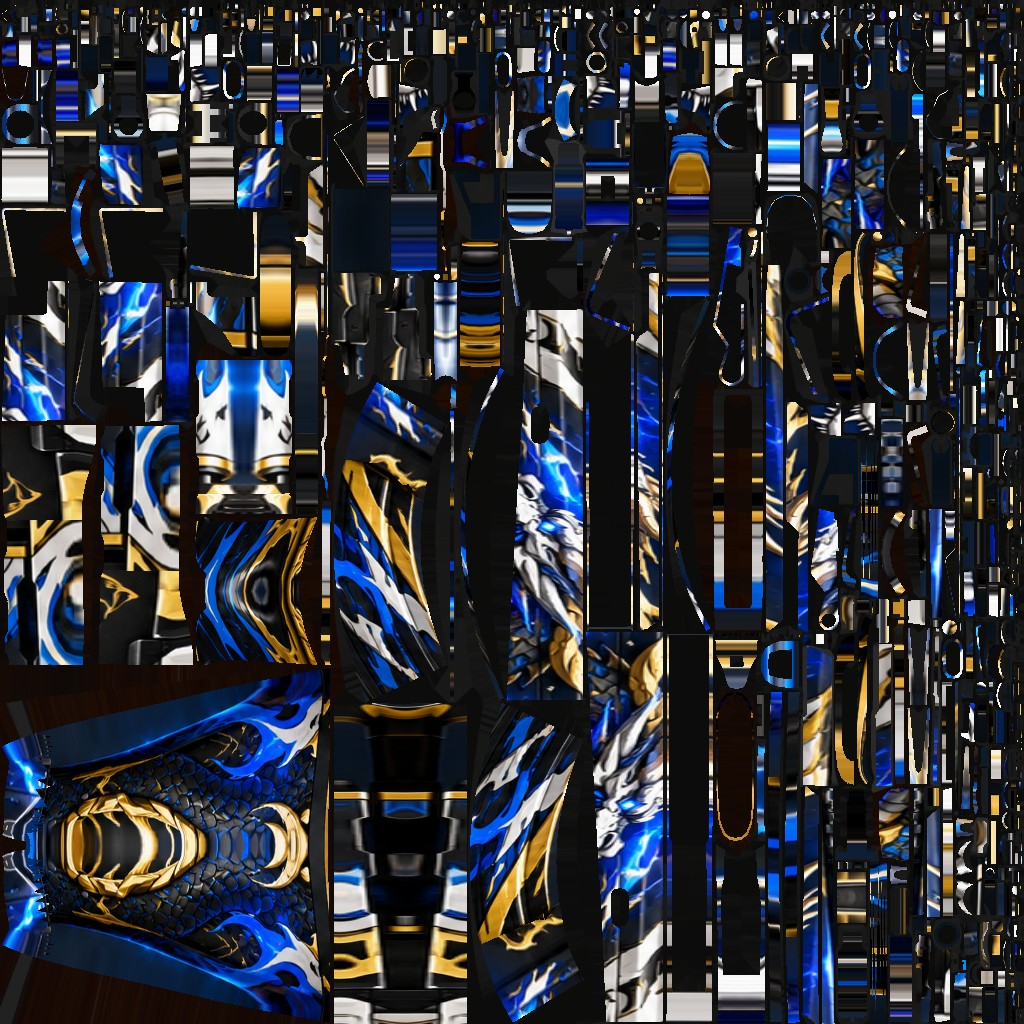
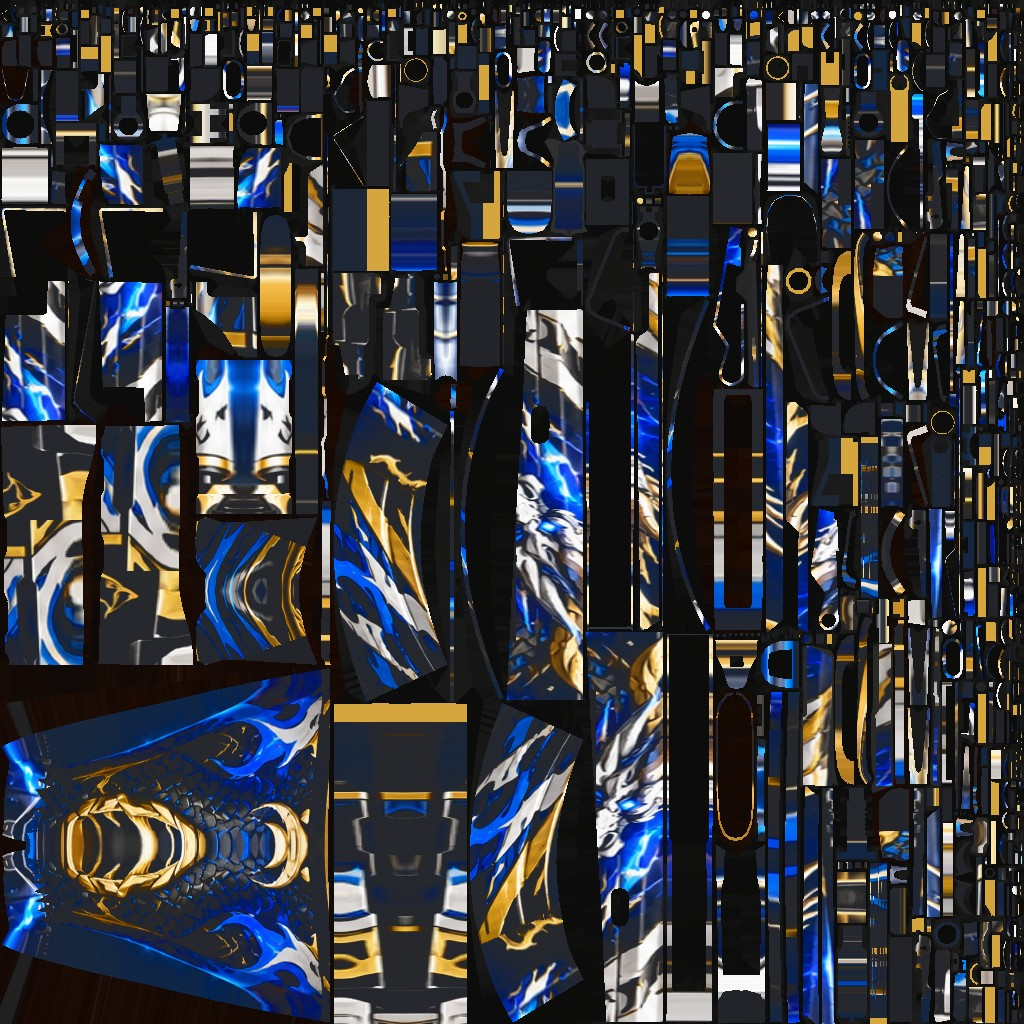
Skin AK-47 Dragão Azul: gatilho preto metal, boca do cano dourada e acabamento metálico (mapa de metal/brilho por pixel)
- motor: textura de skin aceita <nome>_orm.jpg ao lado (G = rugosidade, B = metal), detectada sozinha
- tools/projetar_skin_arma.py: zonas de cor fixa, acabamento e preto mínimo na receita; grava o _orm.jpg

Claude-Session: https://claude.ai/code/session_012EZ5KKTFERXFdQTAkopxx1

diff --git a/motor/engine/Project.cpp b/motor/engine/Project.cpp
@@ -206,17 +206,35 @@ void applyMaterialTo(Engine* e, GameObject& g, bool subtree, const json& spec) {
         if (m >= 0) each([&](MeshRenderer& mr) { mr.material = e->mats[m]; });
     }
     if (auto it = spec.find("textura"); it != spec.end() && it->is_string()) {
-        int w, h, comp;
-        std::string file = it->get<std::string>();
-        if (file.rfind("kit:", 0) == 0) file = kitPath(e, file.substr(4));  // textura do kit (ex.: skin de arma)
-        // a mesma imagem já enviada (skin de arma a cada renascer) não ocupa memória de novo
         TextureManager& tm = TextureManager::instance();
-        GLuint tex = tm.named(file + "#s");
-        unsigned char* px = tex ? nullptr : stbi_load(file.c_str(), &w, &h, &comp, 4);
-        if (px) {
-            tex = tm.fromPixels(px, w, h, 4, true, tm.modelMax);
-            tm.setNamed(file + "#s", tex);
-            stbi_image_free(px);
+        auto carregar = [&](std::string file, bool srgb) -> GLuint {
+            if (file.rfind("kit:", 0) == 0) file = kitPath(e, file.substr(4));  // textura do kit (ex.: skin de arma)
+            // a mesma imagem já enviada (skin de arma a cada renascer) não ocupa memória de novo
+            const std::string chave = file + (srgb ? "#s" : "#l");
+            GLuint t = tm.named(chave);
+            int w, h, comp;
+            unsigned char* px = t ? nullptr : stbi_load(file.c_str(), &w, &h, &comp, 4);
+            if (px) {
+                t = tm.fromPixels(px, w, h, 4, srgb, tm.modelMax);
+                tm.setNamed(chave, t);
+                stbi_image_free(px);
+            }
+            return t;
+        };
+        GLuint tex = carregar(it->get<std::string>(), true);
+        // metal/brilho por pixel (G = rugosidade, B = metal, como no glTF): partes metálicas e outras foscas na skin
+        // (sozinha: a imagem <nome>_orm.jpg ao lado da textura, se existir)
+        GLuint orm = 0;
+        if (auto o = spec.find("textura_orm"); o != spec.end() && o->is_string()) {
+            orm = carregar(o->get<std::string>(), false);
+        } else {
+            std::string f = it->get<std::string>();
+            if (f.rfind("kit:", 0) == 0) f = kitPath(e, f.substr(4));
+            const size_t ponto = f.rfind('.');
+            if (ponto != std::string::npos) {
+                f = f.substr(0, ponto) + "_orm.jpg";
+                if (FILE* fp = std::fopen(f.c_str(), "rb")) { std::fclose(fp); orm = carregar(f, false); }
+            }
         }
         if (tex) {
             const bool metal = spec.contains("metal") && spec["metal"].is_number();
@@ -230,9 +248,14 @@ void applyMaterialTo(Engine* e, GameObject& g, bool subtree, const json& spec) {
                 copy.albedo = tex;
                 copy.albedoFactor = glm::vec4(1.f);
                 copy.mode = 0;
-                if (metal || rough) copy.orm = TextureManager::instance().white();  // metal/brilho iguais na arma toda
-                if (metal) copy.metallic = spec["metal"].get<float>();
-                if (rough) copy.roughness = spec["rugosidade"].get<float>();
+                if (orm) {
+                    copy.orm = orm;
+                    copy.metallic = copy.roughness = 1.f;
+                } else {
+                    if (metal || rough) copy.orm = TextureManager::instance().white();  // metal/brilho iguais na arma toda
+                    if (metal) copy.metallic = spec["metal"].get<float>();
+                    if (rough) copy.roughness = spec["rugosidade"].get<float>();
+                }
                 MaterialId id = e->renderer.createMaterial(copy);
                 remap.push_back({mr.material, id});
                 mr.material = id;

diff --git a/tools/projetar_skin_arma.py b/tools/projetar_skin_arma.py
@@ -10,6 +10,13 @@ do modelo) e o retângulo da foto:
   {"partes": {"coronha": {"t": [0, 0.21], "y": [-0.043, 0.082], "foto": [x_coronha, y_baixo, x_frente, y_cima]}, ...}}
 O retângulo da foto vai do lado da coronha (t menor) para o lado do cano, e de baixo (y menor) para cima.
 
+Opcional na receita:
+  "zonas": pedaços de cor fixa por cima da foto (ex.: gatilho preto metálico, boca do cano dourada):
+     {"gatilho": {"t": [..], "y": [..], "cor": [r, g, b], "metal": 0.9, "rugosidade": 0.35}}
+  "acabamento": metal/rugosidade do resto da arma ({"metal": 0.85, "rugosidade": 0.3}) e "preto_minimo" (o preto da
+     foto vira preto metal: nenhum canal abaixo disso, senão o metal some no escuro)
+Com acabamento ou zonas, grava também <saida>_orm.jpg (G = rugosidade, B = metal), que o jogo usa sozinho.
+
 Uso: python3 tools/projetar_skin_arma.py ak47 referencia.png receita.json saida.jpg
 """
 import json
@@ -31,7 +38,11 @@ def main():
     pos, uv, idx, tex = ler_glb(os.path.join(raiz, 'shaders', 'kit', 'armas', arma + '.glb'))
     ref = np.asarray(Image.open(ref_p).convert('RGB'), float)
     H, W = ref.shape[:2]
-    partes = json.load(open(receita_p))['partes']
+    receita = json.load(open(receita_p))
+    partes = receita['partes']
+    zonas = receita.get('zonas', {})
+    acab = receita.get('acabamento')
+    preto = np.array(receita.get('preto_minimo', [0, 0, 0]), float)
     mn, mx = pos.min(0), pos.max(0)
     t = (pos[:, 2] - mn[2]) / (mx[2] - mn[2])
     # parte de cada triângulo: a primeira da receita que contém o centro (ordem da receita = prioridade)
@@ -65,6 +76,12 @@ def main():
 
     # começa da textura original escurecida (o que nenhum triângulo cobrir fica neutro)
     out = np.asarray(tex.resize((TAM, TAM), Image.LANCZOS), float) * 0.25
+    base_m = acab['metal'] if acab else 0.0
+    base_r = acab['rugosidade'] if acab else 0.6
+    orm = np.zeros((TAM, TAM, 3), float)
+    orm[..., 0] = 255
+    orm[..., 1] = base_r * 255
+    orm[..., 2] = base_m * 255
     UV = np.stack([(uv[:, 0] % 1.0) * TAM, (uv[:, 1] % 1.0) * TAM], 1)
     for i, tri in enumerate(idx):
         a, b, c = UV[tri]
@@ -87,8 +104,24 @@ def main():
         tt = w0 * t[tri[0]] + w1 * t[tri[1]] + w2 * t[tri[2]]
         yy = w0 * pos[tri[0], 1] + w1 * pos[tri[1], 1] + w2 * pos[tri[2], 1]
         fx, fy = para_foto(parte_tri[i], tt, yy)
-        out[gy.astype(int), gx.astype(int)] = amostra(fx, fy)
+        cor = amostra(fx, fy)
+        # preto metal: o escuro da foto sobe até o preto mínimo (mantendo o tom)
+        lum = cor.mean(1, keepdims=True)
+        cor = np.where(lum < preto.mean(), cor + (preto - lum), cor)
+        met = np.full(len(cor), base_m)
+        rug = np.full(len(cor), base_r)
+        for z in zonas.values():
+            m = (tt >= z['t'][0]) & (tt <= z['t'][1]) & (yy >= z['y'][0]) & (yy <= z['y'][1])
+            cor[m] = z['cor']
+            met[m] = z.get('metal', base_m)
+            rug[m] = z.get('rugosidade', base_r)
+        iy, ix = gy.astype(int), gx.astype(int)
+        out[iy, ix] = cor
+        orm[iy, ix, 1] = rug * 255
+        orm[iy, ix, 2] = met * 255
     Image.fromarray(np.clip(out, 0, 255).astype(np.uint8)).save(saida, quality=90)
+    if acab or zonas:
+        Image.fromarray(np.clip(orm, 0, 255).astype(np.uint8)).save(os.path.splitext(saida)[0] + '_orm.jpg', quality=92)
     contagem = {nm: int((parte_tri == k).sum()) for k, nm in enumerate(nomes)}
     print('feito:', saida, contagem)
 
